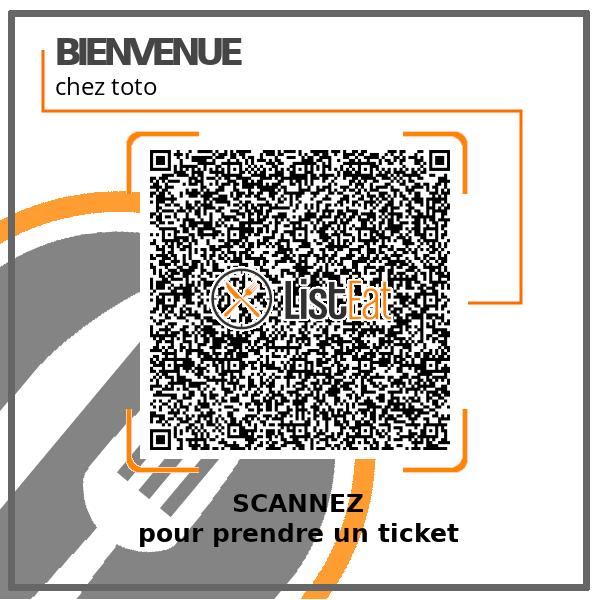
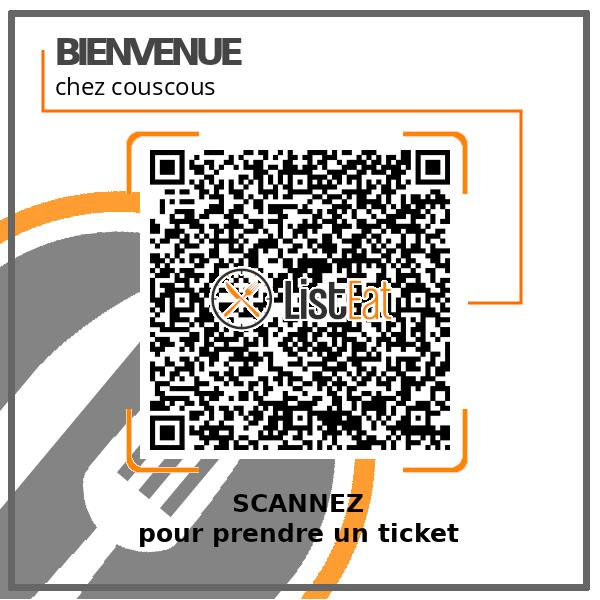
Route decrypt restaurantId

Changed region(s): [[0.24, 0.24, 0.75, 0.75], [0.18, 0.12, 0.36, 0.18]]

diff --git a/backend/src/Controller/Api/RestaurantController.php b/backend/src/Controller/Api/RestaurantController.php
@@ -5,6 +5,7 @@ namespace App\Controller\Api;
 use App\Entity\User;
 use App\Entity\Restaurant;
 use App\Service\GeocodingService;
+use App\Service\CryptoService;
 use App\Repository\RestaurantRepository;
 use App\Repository\UserRepository;
 use Symfony\Component\HttpFoundation\Request;
@@ -33,6 +34,22 @@ class RestaurantController extends AbstractController
         
         return $this->json($restaurant, 200, [], ['groups' => 'restaurant_get']);
     }
+
+    /**
+     * @Route("/api/decrypt", name="api_restaurant_decrypt_id", methods={"GET"})
+     */
+    public function decryptId(Request $request, RestaurantRepository $restaurantRepository)
+    {
+   
+        $data = json_decode($request->getContent());
+
+        $RestaurantId = CryptoService::decrypt($data->restaurant);
+
+        $restaurant = $restaurantRepository->find($RestaurantId);
+
+        return $this->json($restaurant, 200, [], ['groups' => 'restaurant_decrypt']);
+    }
+
 
     /**
      * @Route("api/partner/{id}", name="api_restaurant_update",  methods={"PUT"})
@@ -203,7 +220,7 @@ class RestaurantController extends AbstractController
         $em->flush();
 
         //If we are here, all processus succes we can send email
-        if(isset($data->user)){
+        if(isset($data->user->email) || isset($data->user->password)){
             $user = $user[0];
             //dd($messages);
             $message = (new \Swift_Message('Information partenaire ListEat'))

diff --git a/backend/src/Entity/Restaurant.php b/backend/src/Entity/Restaurant.php
@@ -27,6 +27,7 @@ class Restaurant
      * @ORM\GeneratedValue()
      * @ORM\Column(type="integer")
      * @Groups("restaurant_get")
+     * @Groups("restaurant_decrypt")
      */
     private $id;
 
@@ -41,6 +42,7 @@ class Restaurant
      * @ORM\Column(type="string", length=100)
      * @Assert\NotBlank()
      * @Groups("restaurant_get")
+     * @Groups("restaurant_decrypt")
      */
     private $name;
 
@@ -112,6 +114,7 @@ class Restaurant
     /**
      * @ORM\Column(type="smallint")
      * @Groups("restaurant_get")
+     * @Groups("restaurant_decrypt")
      */
     private $status;
 
